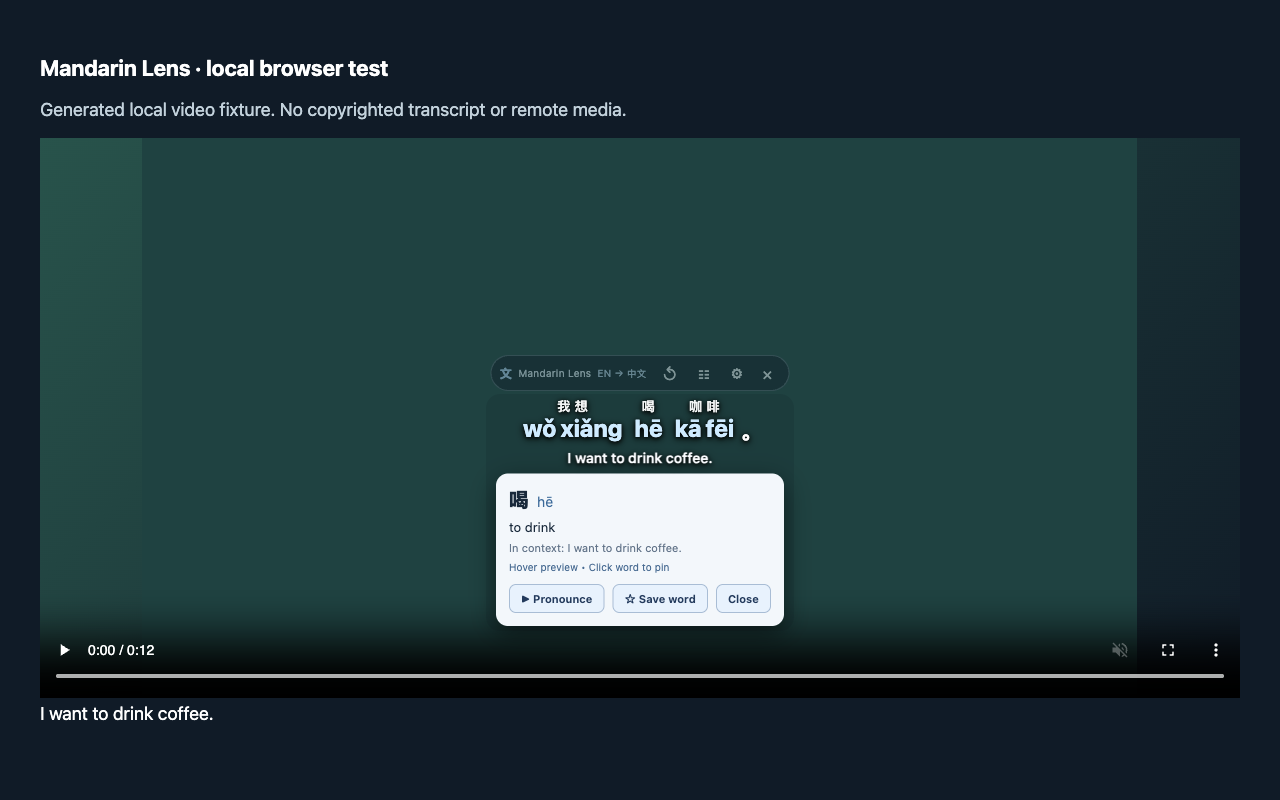
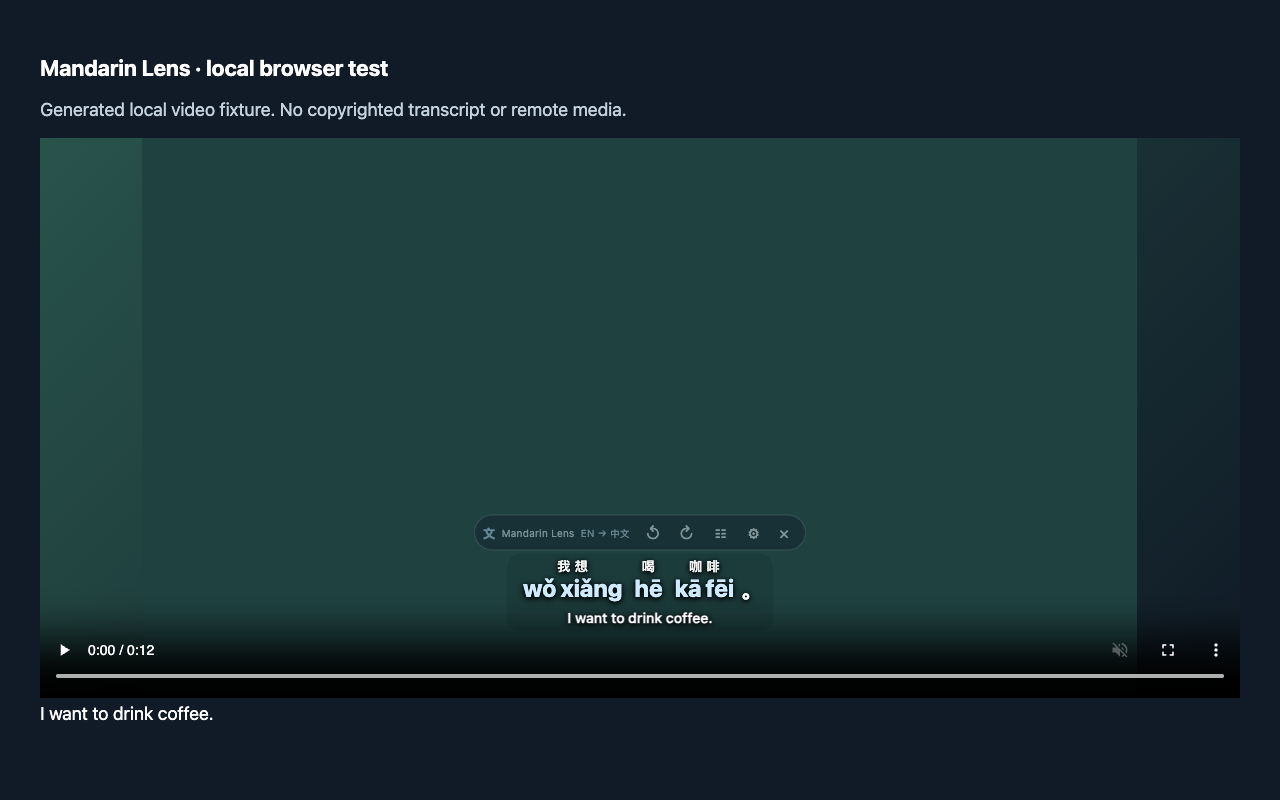
Add sentence looping and safer preparation cache controls

Changed region(s): [[0.375, 0.5, 0.625, 0.7812], [0.4062, 0.4375, 0.4375, 0.4688]]

diff --git a/privacy.html b/privacy.html
@@ -1,2 +1,2 @@
-<!doctype html><html lang="en"><meta charset="utf-8"><meta name="viewport" content="width=device-width,initial-scale=1"><title>Mandarin Lens · Privacy</title><link rel="stylesheet" href="style.css"><main class="document"><a href="./">← Mandarin Lens</a><h1>Mandarin Lens privacy policy</h1><p>Effective date: 28 October 2026.</p><p>Mandarin Lens helps you learn Mandarin from video captions. The extension has no mandatory account, advertising, analytics, tracking pixels, or application server. Its application code does not upload captions, audio, saved words, or learning preferences to the maintainer or a translation service.</p><h2>What stays on your device</h2><p>When you activate the extension on a tab, it reads captions exposed by that page or subtitle files you choose. Captions are passed to Chrome&#x27;s built-in Translator API when available. Translation runs on your device; Chrome may separately download language models through Google&#x27;s browser infrastructure. Downloads require a supported Chrome environment and may use substantial disk space outside the extension package.</p><p>Ordinary display preferences, up to 500 saved vocabulary entries, review schedules, example sentences, and prepared subtitle records are stored in `chrome.storage.local`. The extension does not use Chrome sync storage. Prepared records contain source caption text, translations, timestamps, and a save time. Cache keys hash the video identity, caption content, translation direction, and pipeline version; raw video URLs are not stored as cache keys. The cache targets at most three prepared records and approximately 4 MB under its application size estimate; browser storage accounting can differ. Preparation checkpoints are saved periodically so work can resume.</p><p>Local cache eviction removes older prepared records automatically. The learning-data deletion control clears this local cache along with vocabulary and settings. Captions and translations also exist temporarily in active video tabs. Do not import private material unless you are comfortable keeping it in your browser profile. Local storage is not encrypted by this extension and should not hold passwords or credentials.</p><p>The extension does not request microphone, camera, browsing-history, or tab-audio-capture permissions. Pronunciation uses only a Mandarin voice that the browser identifies as local. If none is available, pronunciation is unavailable.</p><h2>Your controls</h2><p>Activate the extension only on pages where you want it to read captions. Close the subtitle overlay to stop its processing in that tab. Use the learning-data deletion control to remove saved data and settings; reload or close active video tabs to discard any in-memory captions and translations. Removing the extension removes its browser-managed local data. Files you exported remain wherever you saved them and must be deleted separately. Browser-managed language packs are controlled by Chrome and are not removed by clearing extension learning data.</p><p>Vocabulary exports are explicit downloads. Importing subtitles does not upload them. Sharing an exported file or posting a bug report may disclose its contents; remove private data first.</p><h2>Websites, source hosting, and support</h2><p>Video websites retain their own privacy policies. GitHub and any static website host process ordinary requests under their policies, separately from extension processing. Clicking a source, download, support, or documentation link connects to the relevant provider. The extension does not add analytics to those requests.</p><p>Contact the maintainer through the project&#x27;s repository for privacy questions. Do not post private captions, browser data, or credentials in a public issue. Changes to this policy accompany changes to the actual product behavior.
+<!doctype html><html lang="en"><meta charset="utf-8"><meta name="viewport" content="width=device-width,initial-scale=1"><title>Mandarin Lens · Privacy</title><link rel="stylesheet" href="style.css"><main class="document"><a href="./">← Mandarin Lens</a><h1>Mandarin Lens privacy policy</h1><p>Effective date: 28 October 2026.</p><p>Mandarin Lens helps you learn Mandarin from video captions. The extension has no mandatory account, advertising, analytics, tracking pixels, or application server. Its application code does not upload captions, audio, saved words, or learning preferences to the maintainer or a translation service.</p><h2>What stays on your device</h2><p>When you activate the extension on a tab, it reads captions exposed by that page or subtitle files you choose. Captions are passed to Chrome&#x27;s built-in Translator API when available. Translation runs on your device; Chrome may separately download language models through Google&#x27;s browser infrastructure. Downloads require a supported Chrome environment and may use substantial disk space outside the extension package.</p><p>Ordinary display preferences, up to 500 saved vocabulary entries, review schedules, example sentences, and prepared subtitle records are stored in `chrome.storage.local`. The extension does not use Chrome sync storage. Prepared records contain source caption text, translations, timestamps, and a save time. Cache keys hash the video identity, caption content, translation direction, and pipeline version; raw video URLs are not stored as cache keys. The cache targets at most three prepared records and approximately 4 MB under its application size estimate; browser storage accounting can differ. Preparation checkpoints are saved periodically so work can resume.</p><p>Local cache eviction removes older prepared records automatically. The cache-only clear control removes prepared records without deleting vocabulary or preferences and cancels active preparation. The learning-data deletion control clears this local cache along with vocabulary and settings. Captions and translations also exist temporarily in active video tabs. Do not import private material unless you are comfortable keeping it in your browser profile. Local storage is not encrypted by this extension and should not hold passwords or credentials.</p><p>The extension does not request microphone, camera, browsing-history, or tab-audio-capture permissions. Pronunciation uses only a Mandarin voice that the browser identifies as local. If none is available, pronunciation is unavailable.</p><h2>Your controls</h2><p>Activate the extension only on pages where you want it to read captions. Close the subtitle overlay to stop its processing in that tab. Use the learning-data deletion control to remove saved data and settings; reload or close active video tabs to discard any in-memory captions and translations. Removing the extension removes its browser-managed local data. Files you exported remain wherever you saved them and must be deleted separately. Browser-managed language packs are controlled by Chrome and are not removed by clearing extension learning data.</p><p>Vocabulary exports are explicit downloads. Importing subtitles does not upload them. Sharing an exported file or posting a bug report may disclose its contents; remove private data first.</p><h2>Websites, source hosting, and support</h2><p>Video websites retain their own privacy policies. GitHub and any static website host process ordinary requests under their policies, separately from extension processing. Clicking a source, download, support, or documentation link connects to the relevant provider. The extension does not add analytics to those requests.</p><p>Contact the maintainer through the project&#x27;s repository for privacy questions. Do not post private captions, browser data, or credentials in a public issue. Changes to this policy accompany changes to the actual product behavior.
 </p><p><a href="https://github.com/kjm9198/mandarin-lens/blob/main/docs/SECURITY_REVIEW.md">Development security review</a> · <a href="https://github.com/kjm9198/mandarin-lens/blob/main/THREAT_MODEL.md">Threat model</a></p></main></html>

diff --git a/index.html b/index.html
@@ -1,9 +1,9 @@
 <!doctype html>
 <html lang="en"><head><meta charset="utf-8"><meta name="viewport" content="width=device-width,initial-scale=1"><meta name="description" content="Free, private Mandarin learning subtitles for desktop Chrome. Download Mandarin Lens, customize your subtitles and keep vocabulary on your device."><title>Mandarin Lens — A little Mandarin, every day.</title><link rel="icon" href="icon.png"><link rel="stylesheet" href="style.css"></head>
 <body><a class="skip" href="#install">Skip to installation</a><header><a class="brand" href="./"><span aria-hidden="true">文</span> Mandarin Lens</a><nav aria-label="Main"><a href="#install">Install</a><a href="privacy.html">Privacy</a><a href="https://github.com/kjm9198/mandarin-lens">GitHub ↗</a></nav></header>
-<main><section class="hero"><div class="intro"><p class="eyebrow">VERSION 1.0 · FREE & OPEN SOURCE</p><h1>A little Mandarin,<br>every day.</h1><p class="lead">Chinese, clear pinyin, and English captions.<br>Make the next video a chance to learn.</p><div class="actions"><a class="primary" href="https://github.com/kjm9198/mandarin-lens/releases/download/v1.0.0/mandarin-lens-1.0.0.zip">Download for Chrome ↓</a><a href="#install">How to install</a></div><p class="fine">Desktop Chrome · Local processing · No account<br>ZIP installation uses Developer mode. No store fee.</p></div><figure class="product"><img src="overlay.png" alt="Mandarin Lens shows smaller Chinese characters above larger pinyin and English captions over a generated local video" width="1280" height="800"><figcaption>Actual extension with Chrome’s on-device translation on an original local test video. Site and device compatibility vary.</figcaption></figure></section>
-<section class="features wrap"><div><p class="eyebrow">LESS IN THE WAY</p><h2>Your video.<br>Your subtitle style.</h2></div><div><p>Keep pronunciation easy to read, dial down the background, and move captions where they work for you.</p><ul><li>Separate Chinese, pinyin and English sizes</li><li>Minimal, Comfortable and Large presets</li><li>Opacity, fonts, blur, spacing and position</li><li>Save a word. Review it when you choose.</li></ul><a href="https://github.com/kjm9198/mandarin-lens/blob/main/README.md">Explore features and limits ↗</a></div></section>
+<main><section class="hero"><div class="intro"><p class="eyebrow">VERSION 1.1 · FREE & OPEN SOURCE</p><h1>A little Mandarin,<br>every day.</h1><p class="lead">Chinese, clear pinyin, and English captions.<br>Make the next video a chance to learn.</p><div class="actions"><a class="primary" href="https://github.com/kjm9198/mandarin-lens/releases/download/v1.1.0/mandarin-lens-1.1.0.zip">Download for Chrome ↓</a><a href="#install">How to install</a></div><p class="fine">Desktop Chrome · Local processing · No account<br>ZIP installation uses Developer mode. No store fee.</p></div><figure class="product"><img src="overlay.png" alt="Mandarin Lens shows smaller Chinese characters above larger pinyin and English captions over a generated local video" width="1280" height="800"><figcaption>Actual extension with Chrome’s on-device translation on an original local test video. Site and device compatibility vary.</figcaption></figure></section>
+<section class="features wrap"><div><p class="eyebrow">LESS IN THE WAY</p><h2>Your video.<br>Your subtitle style.</h2></div><div><p>Keep pronunciation easy to read, dial down the background, and move captions where they work for you.</p><ul><li>Separate Chinese, pinyin and English sizes</li><li>Minimal, Comfortable and Large presets</li><li>Opacity, fonts, blur, spacing and position</li><li>Loop a sentence. Save a word. Review when you choose.</li></ul><a href="https://github.com/kjm9198/mandarin-lens/blob/main/README.md">Explore features and limits ↗</a></div></section>
 <section id="install" class="install wrap"><p class="eyebrow">READY IN A FEW STEPS</p><h2>Download. Extract. Start learning.</h2><ol><li><strong>Keep the folder.</strong> Download the ZIP and extract it somewhere permanent.</li><li><strong>Load it in Chrome.</strong> Open <code>chrome://extensions</code>, turn on Developer mode, choose <b>Load unpacked</b>, and select the extracted folder containing <code>manifest.json</code>.</li><li><strong>Open a captioned video.</strong> Turn CC on. Click Mandarin Lens, then <b>Start learning</b>. Click <b>Start learning</b> on the video to authorize Chrome's local language pack.</li></ol><p>Send the same ZIP and these steps to a friend. Updates are manual: replace the extracted files and Reload. Back up your words before updating.</p><p class="fine">Local translation needs compatible desktop Chrome hardware and a language pack, downloaded separately by Chrome. Chrome 138+ is the API baseline; availability varies. No mobile support, audio transcription or Google store review. Videos without accessible captions need an SRT/VTT file.</p></section>
 <section class="privacy wrap"><p class="eyebrow">STAYS WITH YOU</p><h2>No account. No caption uploads.</h2><p>Preferences, saved words and prepared captions stay in your browser profile. There are no analytics or ads. Chrome manages its own model downloads; language packs take additional disk space.</p><div class="actions"><a href="privacy.html">Read the privacy policy</a><a href="security.html">Security and permissions</a></div></section>
-<section class="final wrap"><h2>Press play.<br>Learn a little.</h2><a class="primary" href="https://github.com/kjm9198/mandarin-lens/releases/latest">Get Mandarin Lens 1.0 ↗</a></section></main>
-<footer class="wrap"><span>Mandarin Lens · MIT application code</span><div><a href="https://github.com/kjm9198/mandarin-lens/blob/main/THIRD_PARTY_NOTICES.md">Licenses</a><a href="https://github.com/kjm9198/mandarin-lens/blob/main/CHANGELOG.md">Release notes</a><a href="https://github.com/kjm9198/mandarin-lens/blob/main/reports/TESTING.md">Testing</a><a href="https://github.com/kjm9198/mandarin-lens/issues">Support & ideas</a></div></footer></body></html>
+<section class="final wrap"><h2>Press play.<br>Learn a little.</h2><a class="primary" href="https://github.com/kjm9198/mandarin-lens/releases/latest">Get Mandarin Lens 1.1 ↗</a></section></main>
+<footer class="wrap"><span>Mandarin Lens · MIT application code</span><div><a href="https://github.com/kjm9198/mandarin-lens/blob/main/THIRD_PARTY_NOTICES.md">Licenses</a><a href="https://github.com/kjm9198/mandarin-lens/blob/main/CHANGELOG.md">Release notes</a><a href="https://github.com/kjm9198/mandarin-lens/blob/main/reports/1.1.0-TESTING.md">Testing</a><a href="https://github.com/kjm9198/mandarin-lens/issues">Support & ideas</a></div></footer></body></html>
